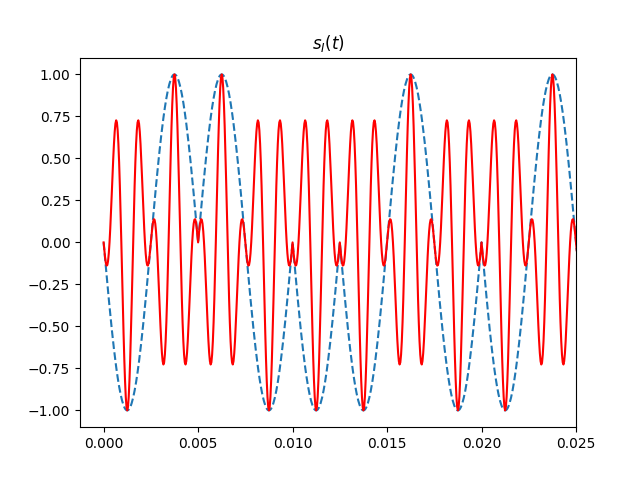
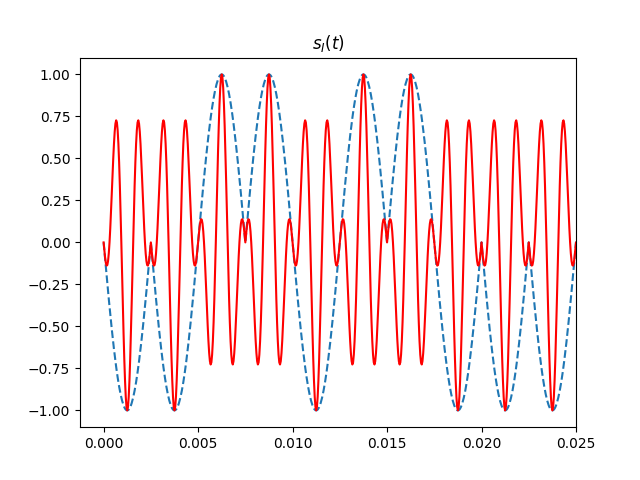
added impairments.py and compensation.py

diff --git a/impairments.py b/impairments.py
@@ -1,0 +1,58 @@
+import numpy as np
+from numpy import sin,cos,pi
+
+class ImpairmentModel():
+    # Class: Impairment Model
+    # Attribute definitions:
+    #   self.g: gain mismatch between I,Q branches
+    #   self.phi: phase mismatch of the local oscillators (in deg)
+    #   self.dc_i: DC bias on I branch
+    #   self.dc_q: DC bias on Q branch
+
+    def __init__(self,g=1,phi=0,dc_i=0,dc_q=0): # Constructor
+
+        self.g = g
+        self.phi = phi
+        self.dc_i = dc_i
+        self.dc_q = dc_q
+
+    def receiver_impairments(self,r):
+        """Add receiver impairments to the IQ branches. Introduces DC and IQ imbalances between the inphase and quadrature components of the complex baseband signal r.
+        
+        Args:
+            r: complex baseband signal sequence to impair
+        Returns:
+            z: impaired signal sequence
+        """
+
+        if isinstance(r,list):
+            r = np.array(r) # Convert to numpy array if in list format
+        k = self.__iq_imbalance(r)
+        z = self.__dc_impairment(k)
+        return z
+    
+    def __iq_imbalance(self,r): # Private member function
+        """Add IQ imbalance impairments in a complex baseband. Introduces IQ imbalance and phase mismatch between the inphase and quadrature components of the complex 
+        baseband signal r.
+
+        Args:
+            r: complex baseband signal sequence to impair
+        Returns:
+            z: impaired signal sequence
+        """
+
+        Ri = np.real(r); Rq = np.imag(r)
+        Zi = Ri # I branch
+        Zq = self.g*(-sin(self.phi/180*pi)*Ri + cos(self.phi/180*pi)*Rq) # Q branch crosstalk
+
+        return Zi+1j*Zq
+
+    def __dc_impairment(self,r): # Private member function
+        """Add DC impairments in a complex baseband model. Introduces DC imbalance between the inphase and quadrature components of the complex baseband signal r.
+
+        Args:
+            r: complex baseband signal sequence to impair
+        """
+
+        return r + (self.dc_i+1j*self.dc_q)
+    

diff --git a/compensation.py b/compensation.py
@@ -1,0 +1,17 @@
+import numpy as np
+from numpy import mean,real,imag,sign,abs,sqrt,sum
+
+def dc_compensation(z):
+    """Function to estimate and remove DC impairments in the IQ branch.
+
+    Args:
+        z: DC impaired signal sequence (numpy format)
+    Returns:
+        v: DC removed signal sequence
+    """
+
+    iDCest = mean(real(z)) # Estimated DC on I branch
+    qDCest = mean(imag(z)) # Estimated DC on Q branch
+    v = z - (iDCest+1j*qDCest) # Remove estimated DCs
+
+    return v

diff --git a/ch4_demo_scripts.py b/ch4_demo_scripts.py
@@ -37,7 +37,7 @@ def awgnPerformance():
 
         for j,EsN0dB in enumerate(EsN0dBs):
 
-            receivedSyms = awgn(modulatedSyms, EsN0dB) # Ad awgn noise
+            receivedSyms = awgn(modulatedSyms, EsN0dB) # Add awgn noise
 
             if mod_type.lower() == 'fsk': # Demodulate (Refer Chapter 3)
                 detectedSyms = modem.demodulate(receivedSyms,coherence)

diff --git a/ch2_demo_scripts.py b/ch2_demo_scripts.py
@@ -1,6 +1,7 @@
 # Performance of BPSK using waveform simulation
 from re import T
-
+import time
+import multiprocessing as mp
 
 def BPSK_performance():
 
@@ -739,12 +740,6 @@ def bfsk():
     plt.ylabel('Probability of Bit Error - $P_b$')
     plt.legend()
     plt.savefig('Ch2_images/bfsk.png')
-
-
-
-
-    
-
 
 
 
